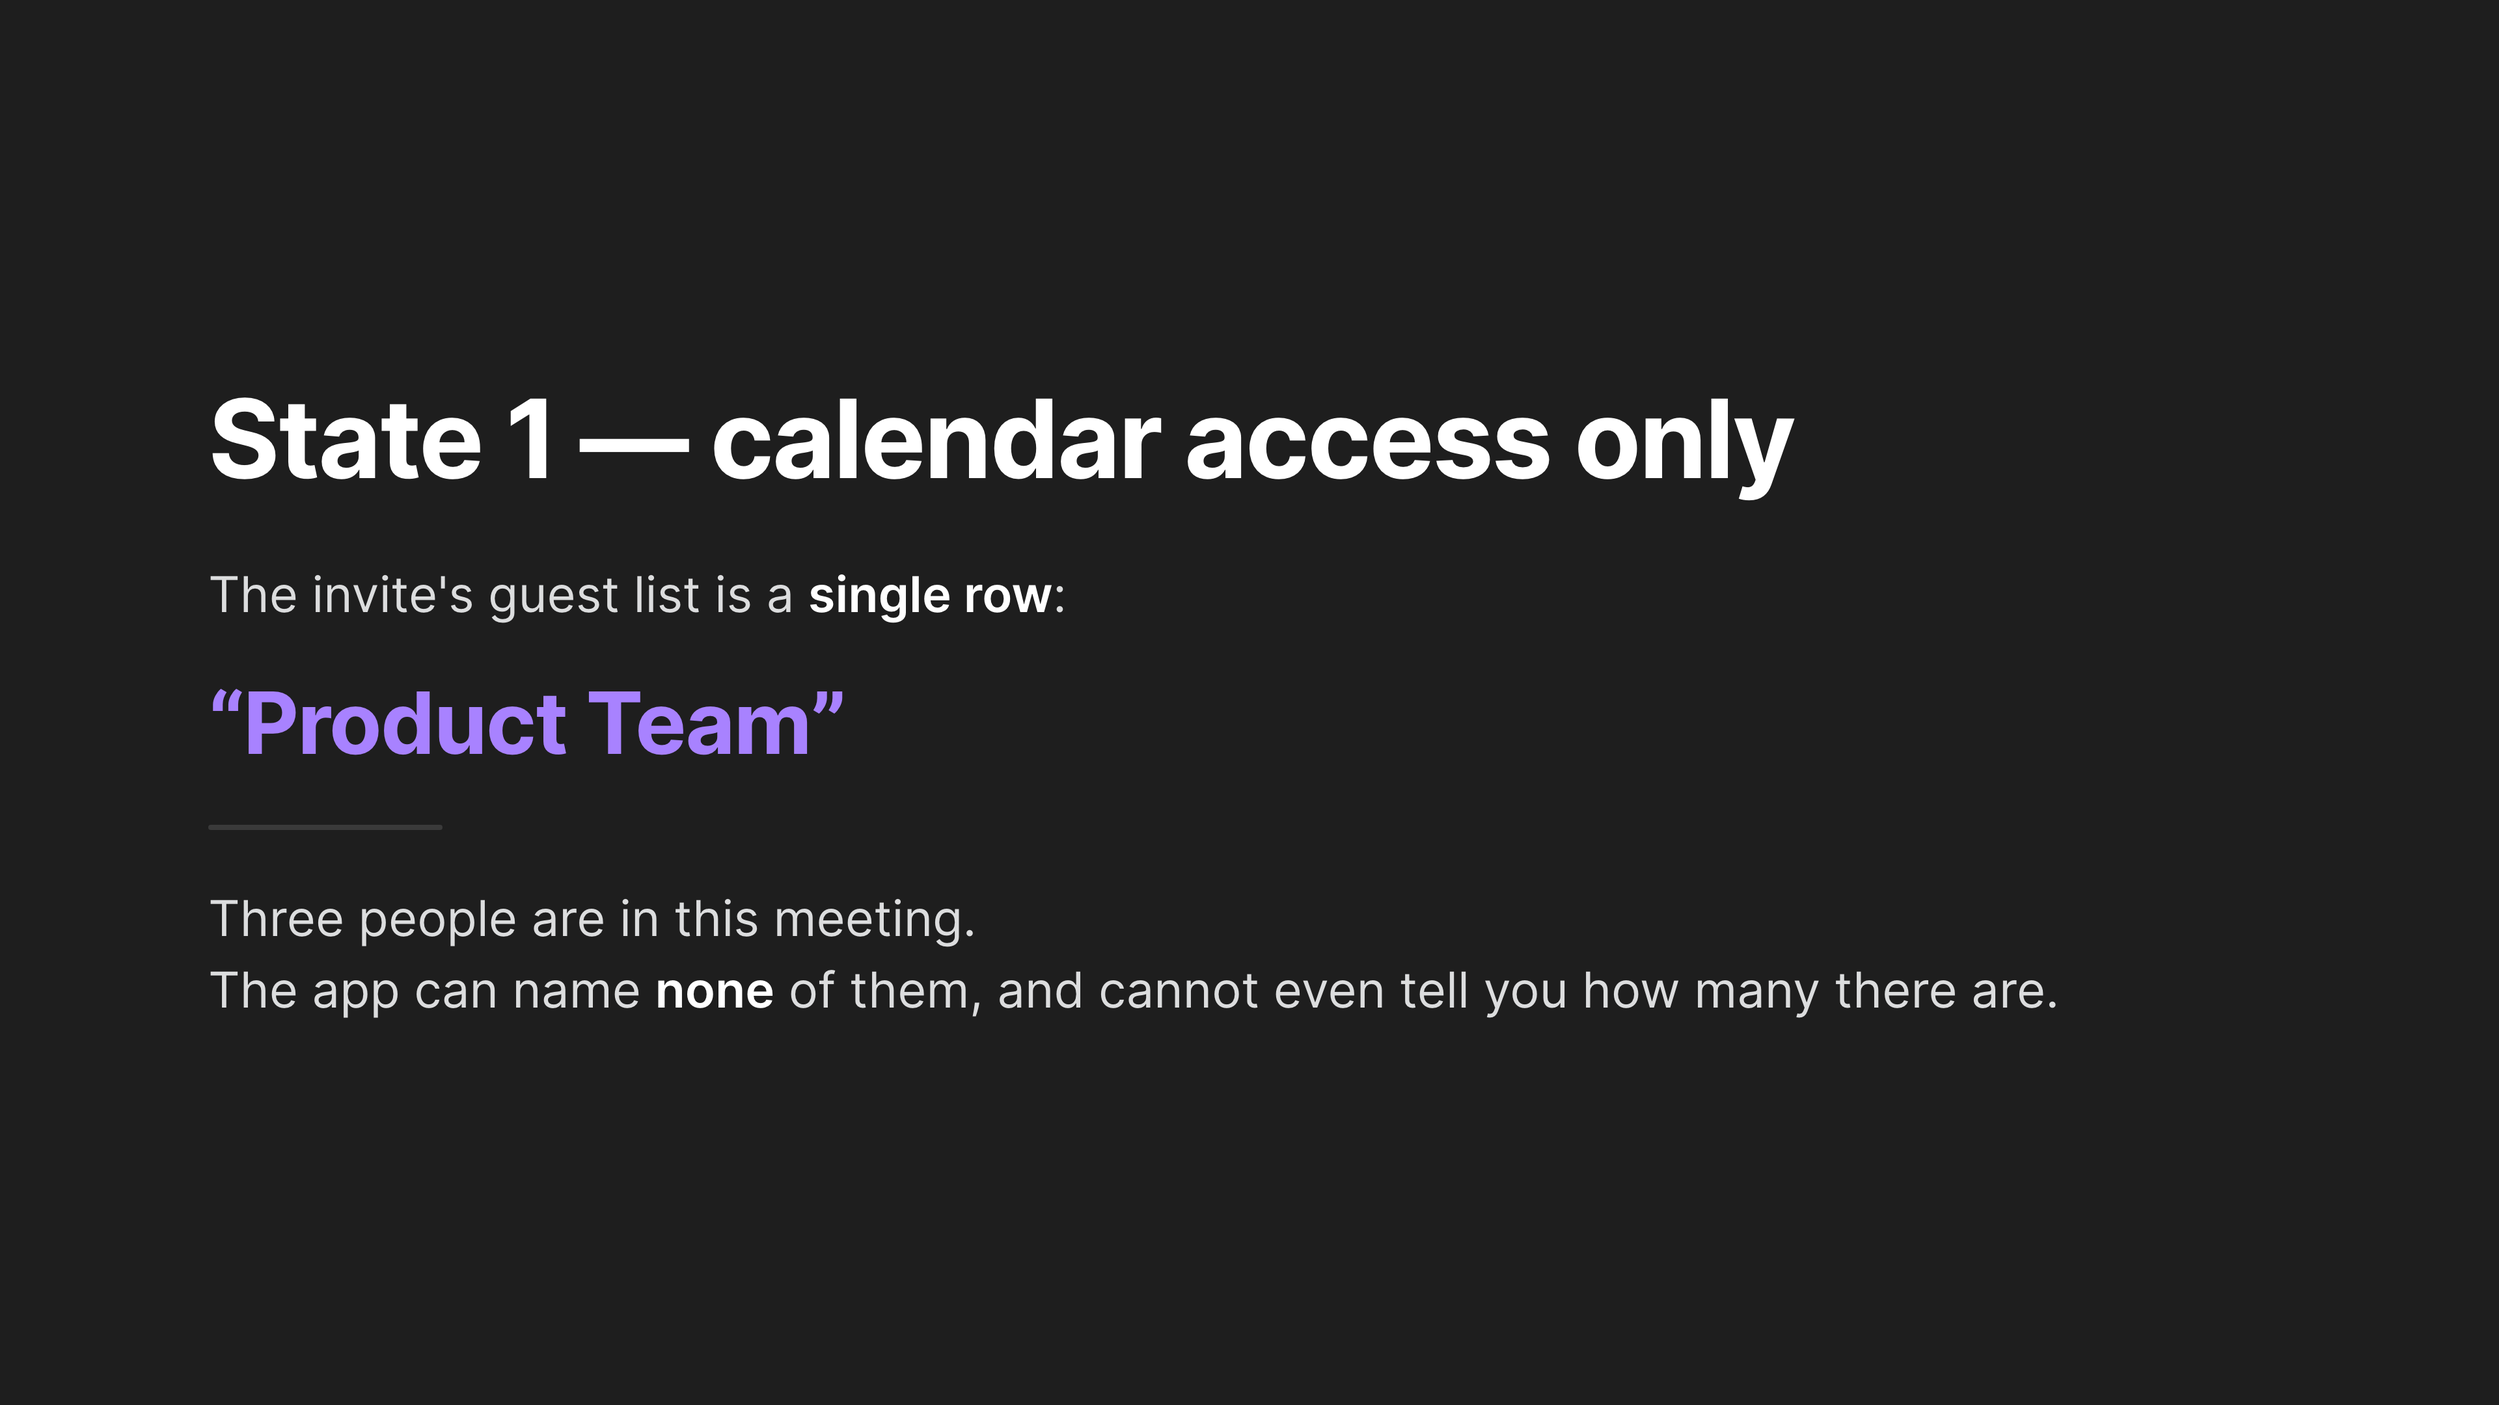
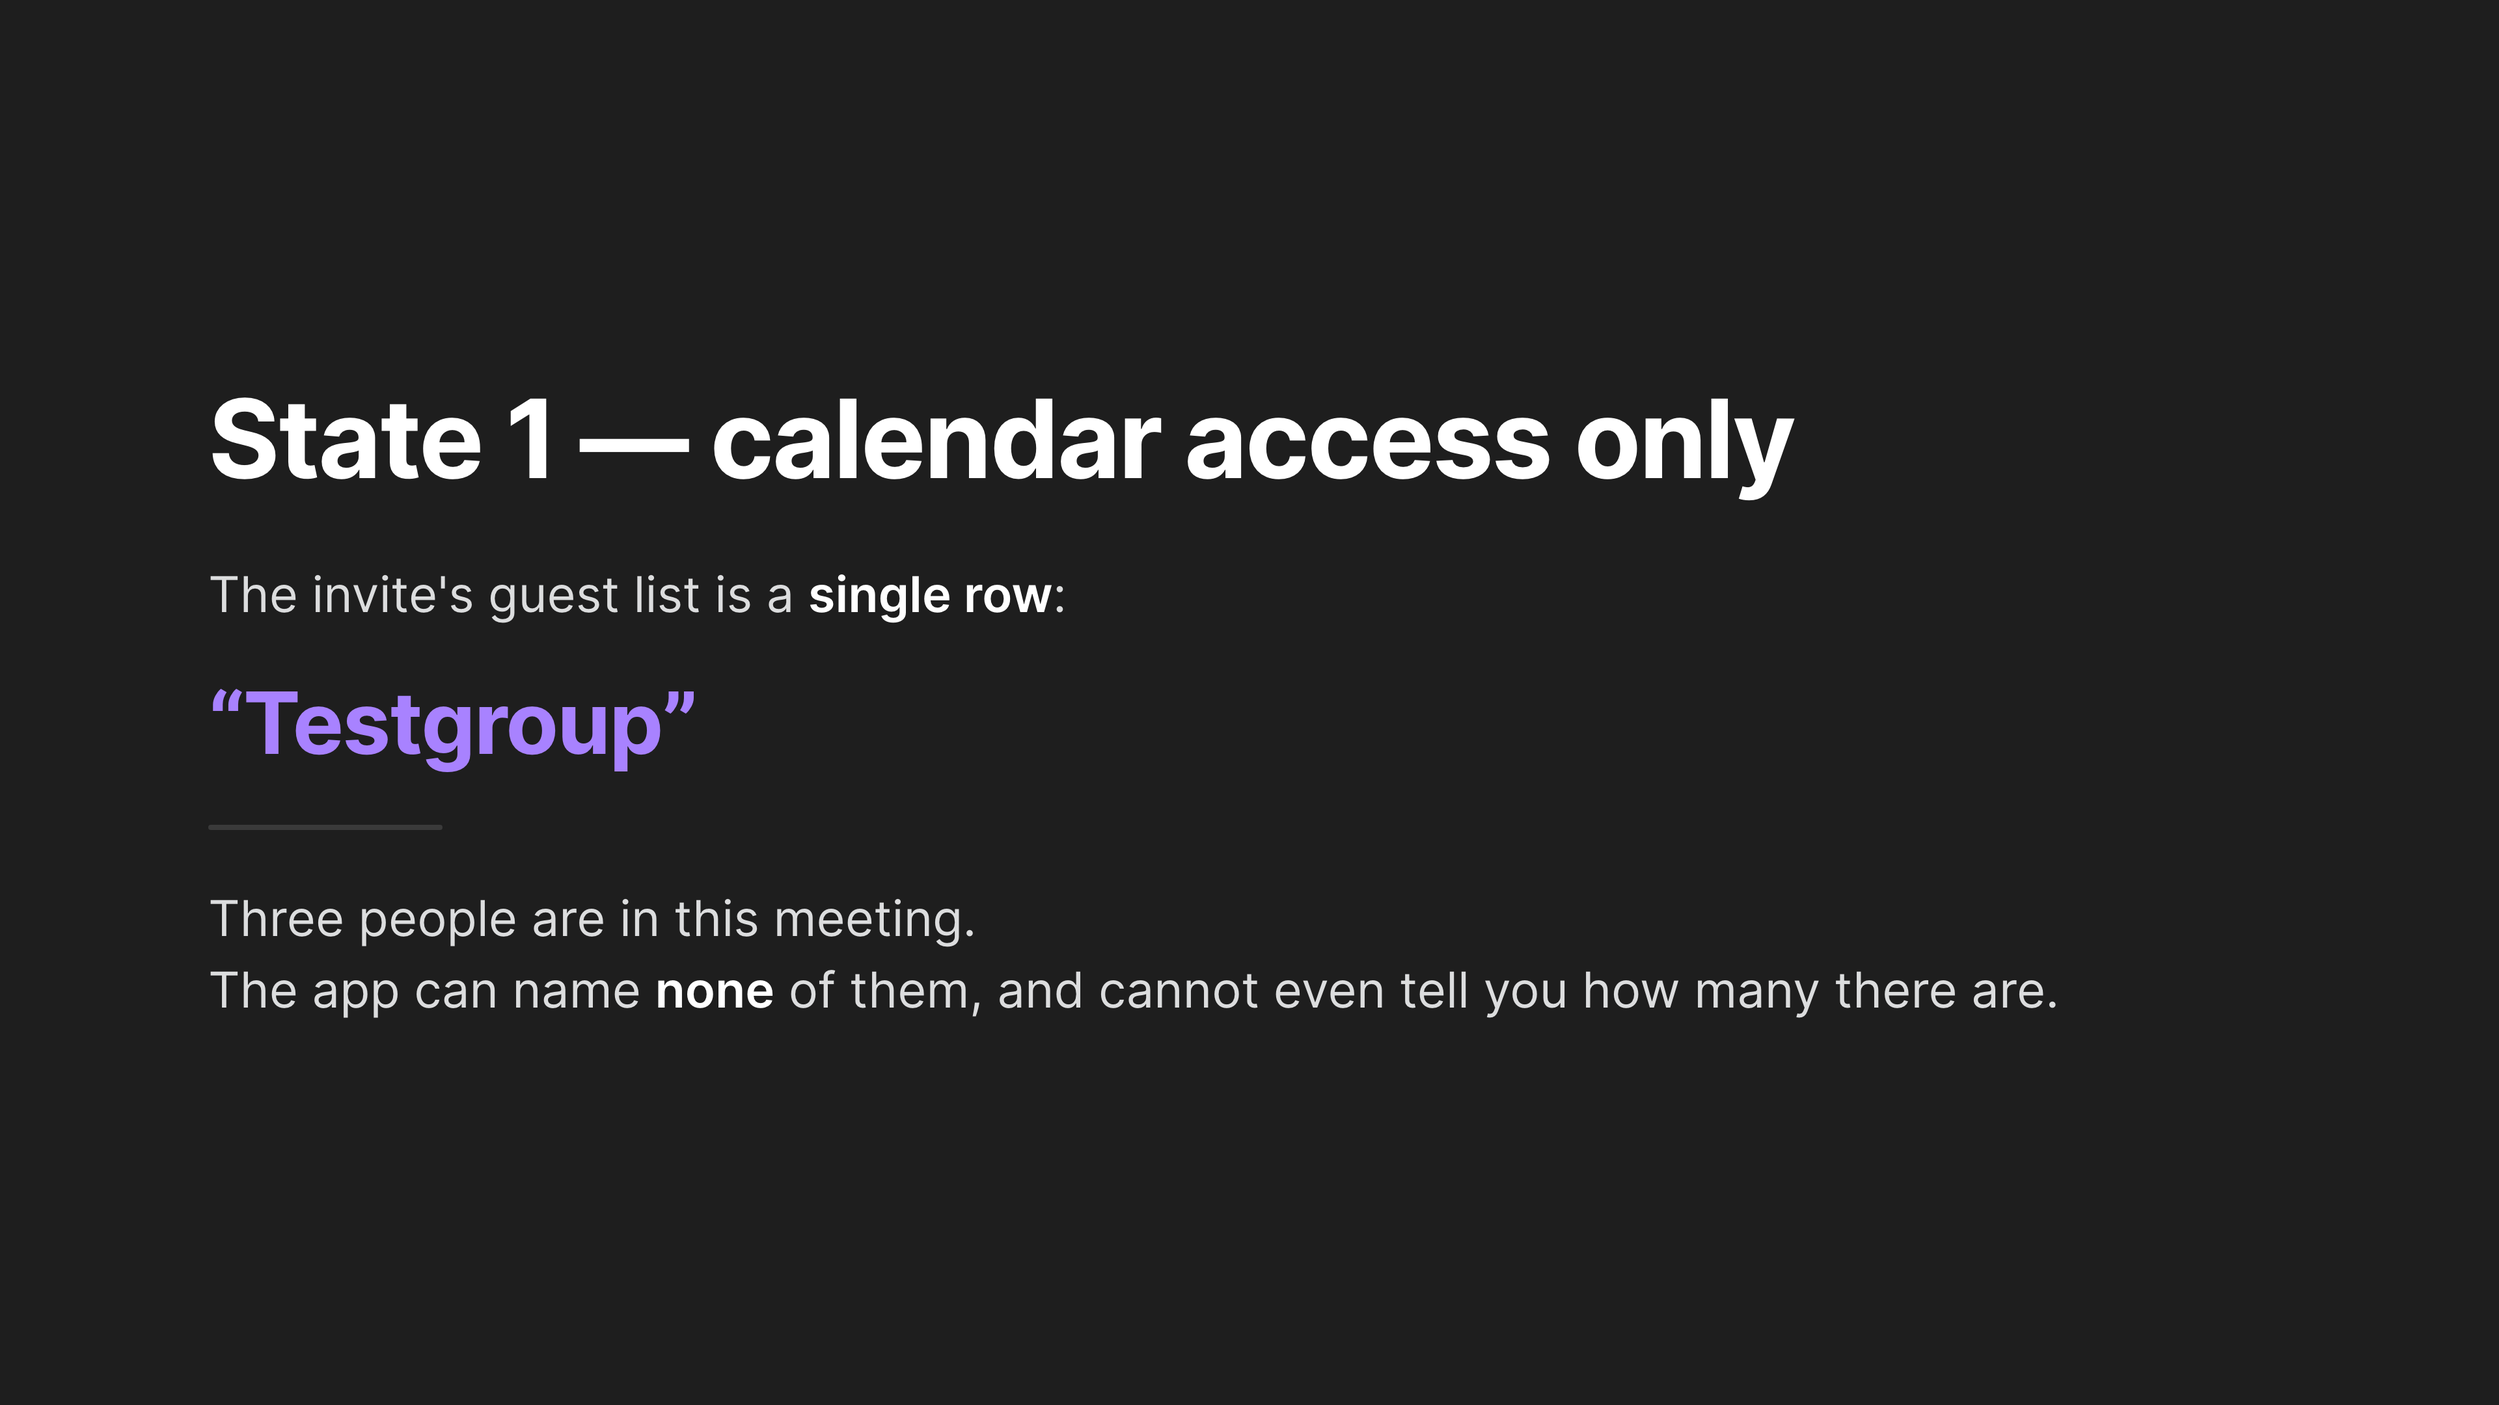
docs: retarget the demo at the real mhiastore.com cast
Replaces the invented Workspace cast with the accounts that actually exist:
mhiastore.com, testgroup@, and Alvaro Lobato Moreno / Maria Jose Partal /
Alberto Lobato. Adds verification-demo-provision.gs to create the members,
the memberships and the event in one idempotent Apps Script run.

Two things about this cast are weaker than the invented one, so §6 now
names both rather than leaving them to be discovered on camera:

- alvaro@ and alberto@ humanize to "Alvaro" and "Alberto", which are
  correct first names — those rows only gain a surname when the directory
  scope lands. Only mjpartal@ -> "Maria Jose Partal" is unmistakable, so
  Shot 4 is told to linger there.

- The signed-in user is himself a group member. If Calendar has added him
  to the event as his own named attendee, the baseline shows two rows
  instead of the single nameless one the whole shot list rests on. The
  script's checkBaseline() prints the guest list as the Calendar API
  returns it and PASS/FAILs it, so that is caught before recording rather
  than in the edit.

Claude-Session: https://claude.ai/code/session_01CMRiA46dsiyXMtnCQxLvFB

Changed region(s): [[0.0938, 0.4963, 0.3438, 0.5583]]

diff --git a/docs/verification-cards/deck.html b/docs/verification-cards/deck.html
@@ -83,6 +83,8 @@
     border-radius: 6px;
   }
 
+  h2.names { font-size: calc(54px * var(--scale)); line-height: 1.22; }
+
   h2 > code {
     background: none;
     padding: 0;
@@ -190,7 +192,7 @@
   <section class="card" data-hold="10">
     <h1>State 1 — calendar access only</h1>
     <p>The invite's guest list is a <strong>single row</strong>:</p>
-    <h2>“Product Team”</h2>
+    <h2>“Testgroup”</h2>
     <div class="rule"></div>
     <p>Three people are in this meeting.<br>
        The app can name <strong>none</strong> of them, and cannot even tell you
@@ -212,7 +214,7 @@
   <!-- 6 -->
   <section class="card dense" data-hold="12">
     <h1>State 2, continued —<br>we have addresses, not names</h1>
-    <h2>“Schen” · “Rpatel” · “Mokafor”</h2>
+    <h2>“Alvaro” · “Mjpartal” · “Alberto”</h2>
     <div class="rule"></div>
     <p>We now know <strong>who</strong> is in the meeting — but only as email addresses.</p>
     <p>Cloud Identity's <code>memberships.list</code> returns <strong>member keys only</strong>.
@@ -226,7 +228,7 @@
     <h2><code>directory.readonly</code></h2>
     <p><strong>Turning ON:</strong> “Resolve attendee names from your Workspace directory”</p>
     <p><strong>Watch:</strong> the same three rows become</p>
-    <h2>Sophie Chen · Raj Patel · Mia Okafor</h2>
+    <h2 class="names">Alvaro Lobato Moreno<br>Maria Jose Partal<br>Alberto Lobato</h2>
     <div class="rule"></div>
     <p><strong>Why the group scope could not do this:</strong> it returns addresses, never names.<br>
        <strong>Why this scope alone is not enough:</strong> it has no way to discover

diff --git a/docs/google-verification.md b/docs/google-verification.md
@@ -167,75 +167,60 @@ so explicitly in the reply and show the toggles on camera.
 
 ## 6. Demo data to prepare
 
-### You can invent the people. You cannot invent the accounts.
+The cast is real: **mhiastore.com**, the group **`testgroup@mhiastore.com`**, and its
+three members. Both scopes resolve against real Google-side data, so nothing here can
+be faked — an address that doesn't exist resolves to nothing and the shot proves
+nothing.
 
-Both scopes resolve against **real Google-side data**, so a made-up address that doesn't
-exist resolves to nothing and the shot proves nothing. Make up the *identities* freely —
-a Workspace user called "Sophie Chen" who exists only for this demo is completely fine —
-but actually create each account.
+[`verification-demo-provision.gs`](./verification-demo-provision.gs) creates all of it.
+Paste it into [script.google.com](https://script.google.com) signed in as a domain
+super admin, add the **Admin SDK API** and **Calendar API** advanced services, and run
+`provisionAll`. It's idempotent — re-run it after a botched take.
 
-### The group must be a Workspace group, not a public one
+### The cast
 
-The plugin calls `cloudidentity.googleapis.com/v1/groups:lookup?groupKey.id=<email>`
-(see `expandGroupAttendees.ts`). Cloud Identity resolves groups belonging to a Cloud
-Identity / Workspace customer. A **public consumer group** created on groups.google.com
-(`…@googlegroups.com`) is not one of those and will fail lookup.
-
-Create it **inside the demo Workspace domain** — Admin console → Directory → Groups, or
-groups.google.com while signed in as a domain user with group-creation rights.
-
-### The cast — one group, three members, nothing else
-
-Substitute your real Workspace domain for `<demo-domain>`.
-
-| Role | Address | Profile name | Shows as, before |
+| Role | Address | Directory name | Shows as, before |
 | --- | --- | --- | --- |
-| Signed-in user | `alex.moreno@<demo-domain>` | Alex Moreno | — |
-| The group | `product-team@<demo-domain>` | — | "Product Team" |
-| Member 1 | `schen@<demo-domain>` | **Sophie Chen** | "Schen" |
-| Member 2 | `rpatel@<demo-domain>` | **Raj Patel** | "Rpatel" |
-| Member 3 | `mokafor@<demo-domain>` | **Mia Okafor** | "Mokafor" |
+| Signed-in user **and** group member | `alvaro@mhiastore.com` | Alvaro Lobato Moreno | "Alvaro" |
+| The group | `testgroup@mhiastore.com` | — | "Testgroup" |
+| Member | `mjpartal@mhiastore.com` | Maria Jose Partal | "Mjpartal" |
+| Member | `alberto@mhiastore.com` | Alberto Lobato | "Alberto" |
 
-> ⚠ **Do not use dotted addresses like `sophie.chen@`.** With no scope granted the app
-> falls back to `humanizeEmailName()`, which splits the local part on `. _ + -` and
-> title-cases it — so `sophie.chen@` renders as "Sophie Chen", *character-for-character
-> identical* to her directory profile name. Granting `directory.readonly` would then
-> change nothing on screen and the shot would prove nothing.
->
-> Initial-style local parts (`schen@` → "Schen") keep the guess visibly wrong. The gap
-> between the guess and the real name **is** the evidence.
+"Shows as, before" is `humanizeEmailName()` — the local part split on `. _ + -` and
+title-cased. That guess, versus the directory name, **is** the evidence of the video.
 
-### The one meeting
+### Two weaknesses in this cast, and what to do about them
 
-Create a single event — **"Q3 planning review"** — on Alex's calendar, timed inside the
-agenda's look-ahead window, with **exactly one guest: the group**. Nothing else. The
-whole story plays out on that one row.
+**1. Two of the three name changes are weak.** `alvaro@` guesses to "Alvaro" and
+`alberto@` to "Alberto" — both are correct first names, so those rows change from a
+real first name to a fuller one. Only `mjpartal@` → "Maria Jose Partal" is a change a
+reviewer cannot mistake for cosmetics.
 
-### Stopping Calendar from supplying the name itself
+That is still genuine evidence (the app demonstrably did not know the surnames), but
+**Shot 4 should linger on Maria Jose's row**, and the card already names all three so
+the reviewer can compare. If you can add one more member with an initial-style local
+part, do — it costs one account and materially strengthens the shot.
 
-`mapAttendeesExpanded()` prefers Calendar's own `attendee.displayName` over any lookup.
-If Calendar returns a name, **no API call happens at all**.
+**2. The signed-in user is inside the group.** `alvaro@` signs in *and* is a member of
+`testgroup@`. If Calendar has added him to the event as his own attendee entry, the
+baseline shows **two rows, one already correctly named**, instead of the single
+nameless row the whole shot list is built on.
 
-That matters less now the only direct guest is the group, but the expanded members must
-still arrive nameless — and they will, since they were never invited individually.
+The provisioning script's `checkBaseline()` prints the guest list exactly as the
+Calendar API returns it and tells you PASS or FAIL. **Run it before recording.** It
+passes when there is exactly one attendee, `testgroup@mhiastore.com`, with no
+`displayName`. If it fails: remove the extra guest from the event, or organize the
+event from another account in the domain.
 
-**Deterministic way — create the event via the API.** At
-[script.google.com](https://script.google.com), signed in as the demo user, enable the
-**Calendar** advanced service and run:
+### Why the event is created through the API
 
-```js
-function createDemoEvent() {
-  Calendar.Events.insert({
-    summary: "Q3 planning review",
-    start: { dateTime: "2026-08-20T10:00:00+02:00" },
-    end:   { dateTime: "2026-08-20T11:00:00+02:00" },
-    attendees: [{ email: "product-team@<demo-domain>" }],
-  }, "primary");
-}
-```
+`mapAttendeesExpanded()` prefers Calendar's own `attendee.displayName` over any lookup
+— if Calendar returns a name, **no API call happens at all**. Inserting the event with
+a bare group email (as the script does) keeps the guest list nameless. Creating it by
+hand in the Calendar UI risks Calendar attaching names itself.
 
-**Verifying costs nothing, because the baseline shot is the test.** With both toggles
-off and `_mcDev.disableCache()` on, the agenda must show a single **"Product Team"** row.
+The event is **"Q3 planning review"**, tomorrow at 10:00, with **exactly one guest: the
+group**. Nothing else. The whole story plays out on that one row.
 
 ### Turn off caching before you record
 
@@ -250,7 +235,12 @@ _mcDev.status()         // confirm bypass: true, and which scopes are granted
 Leave it on for the whole recording. It doesn't persist — re-run it after any plugin
 reload.
 
----
+### The rehearsal is free
+
+With both toggles off and cache bypass on, the agenda must show a single **"Testgroup"**
+row. Three people are in that meeting and the app can name none of them. If you see
+more than one row, `checkBaseline()` will tell you why.
+
 
 ## 7. Demo-video shot list
 
@@ -276,7 +266,7 @@ carry the argument (there is no voice-over): see
   `client_id=…` and to see the permission list contains **calendar access only**.
   Approve.
 - Open the agenda and show **"Q3 planning review"**. Its guest list is a single row:
-  **"Product Team"**. The meeting has three actual participants and the app can name
+  **"Testgroup"**. The meeting has three actual participants and the app can name
   none of them.
 
 > **CARD 4** (what you just saw)
@@ -287,7 +277,7 @@ carry the argument (there is no voice-over): see
 
 - Turn on **only** "Expand Google Group invitees" → **Re-authenticate**.
 - Consent screen now lists that one extra permission. Approve.
-- Same agenda entry: one row becomes **three** — "Schen", "Rpatel", "Mokafor".
+- Same agenda entry: one row becomes **three** — "Alvaro", "Mjpartal", "Alberto".
 - **Narrate via the card:** we now know *who* is in the meeting, but only as email
   addresses. Cloud Identity returns member keys, not names.
 
@@ -297,7 +287,9 @@ carry the argument (there is no voice-over): see
 
 - Turn on **only** "Resolve attendee names from your Workspace directory" →
   **Re-authenticate** → approve.
-- The same three rows become **"Sophie Chen"**, **"Raj Patel"**, **"Mia Okafor"**.
+- The same three rows become **"Alvaro Lobato Moreno"**, **"Maria Jose Partal"**,
+  **"Alberto Lobato"**. **Linger on Maria Jose's row** — "Mjpartal" → "Maria Jose
+  Partal" is the one change no reviewer can read as cosmetic (see §6).
 - Optionally create the meeting note here to show the resolved names written into the
   vault — the end product the user actually keeps.
 
@@ -313,8 +305,10 @@ carry the argument (there is no voice-over): see
 - [ ] `client_id=…` legible in the consent URL at least once.
 - [ ] Consent screen visible for calendar-only **and** for each of the two additions.
 - [ ] The same guest list shown in all three states, in the same view.
-- [ ] Baseline really showed one "Product Team" row — not three people.
-- [ ] After the group grant, rows really read "Schen"/"Rpatel"/"Mokafor" — not real names.
+- [ ] Baseline really showed one "Testgroup" row — not three people, and not a
+      second row for Alvaro (`checkBaseline()` PASSes).
+- [ ] After the group grant, rows really read "Alvaro"/"Mjpartal"/"Alberto" — not
+      full directory names.
 - [ ] A statement that nothing is written back to Google.
 
 ---

diff --git a/docs/verification-video-cards.md b/docs/verification-video-cards.md
@@ -76,7 +76,7 @@ Expect a **calendar-only** consent screen.
 
 The invite's guest list is a **single row**:
 
-## "Product Team"
+## "Testgroup"
 
 Three people are in this meeting.
 The app can name **none** of them, and cannot even tell you how many there are.
@@ -103,7 +103,7 @@ only Cloud Identity can.
 
 # State 2, continued — we have addresses, not names
 
-## "Schen" · "Rpatel" · "Mokafor"
+## "Alvaro" · "Mjpartal" · "Alberto"
 
 We now know **who** is in the meeting — but only as email addresses.
 
@@ -124,7 +124,9 @@ There is no name anywhere in that response.
 
 **Watch:** the same three rows become
 
-## Sophie Chen · Raj Patel · Mia Okafor
+## Alvaro Lobato Moreno
+## Maria Jose Partal
+## Alberto Lobato
 
 **Why the group scope could not do this:** it returns addresses, never names.
 **Why this scope alone is not enough:** it has no way to discover
